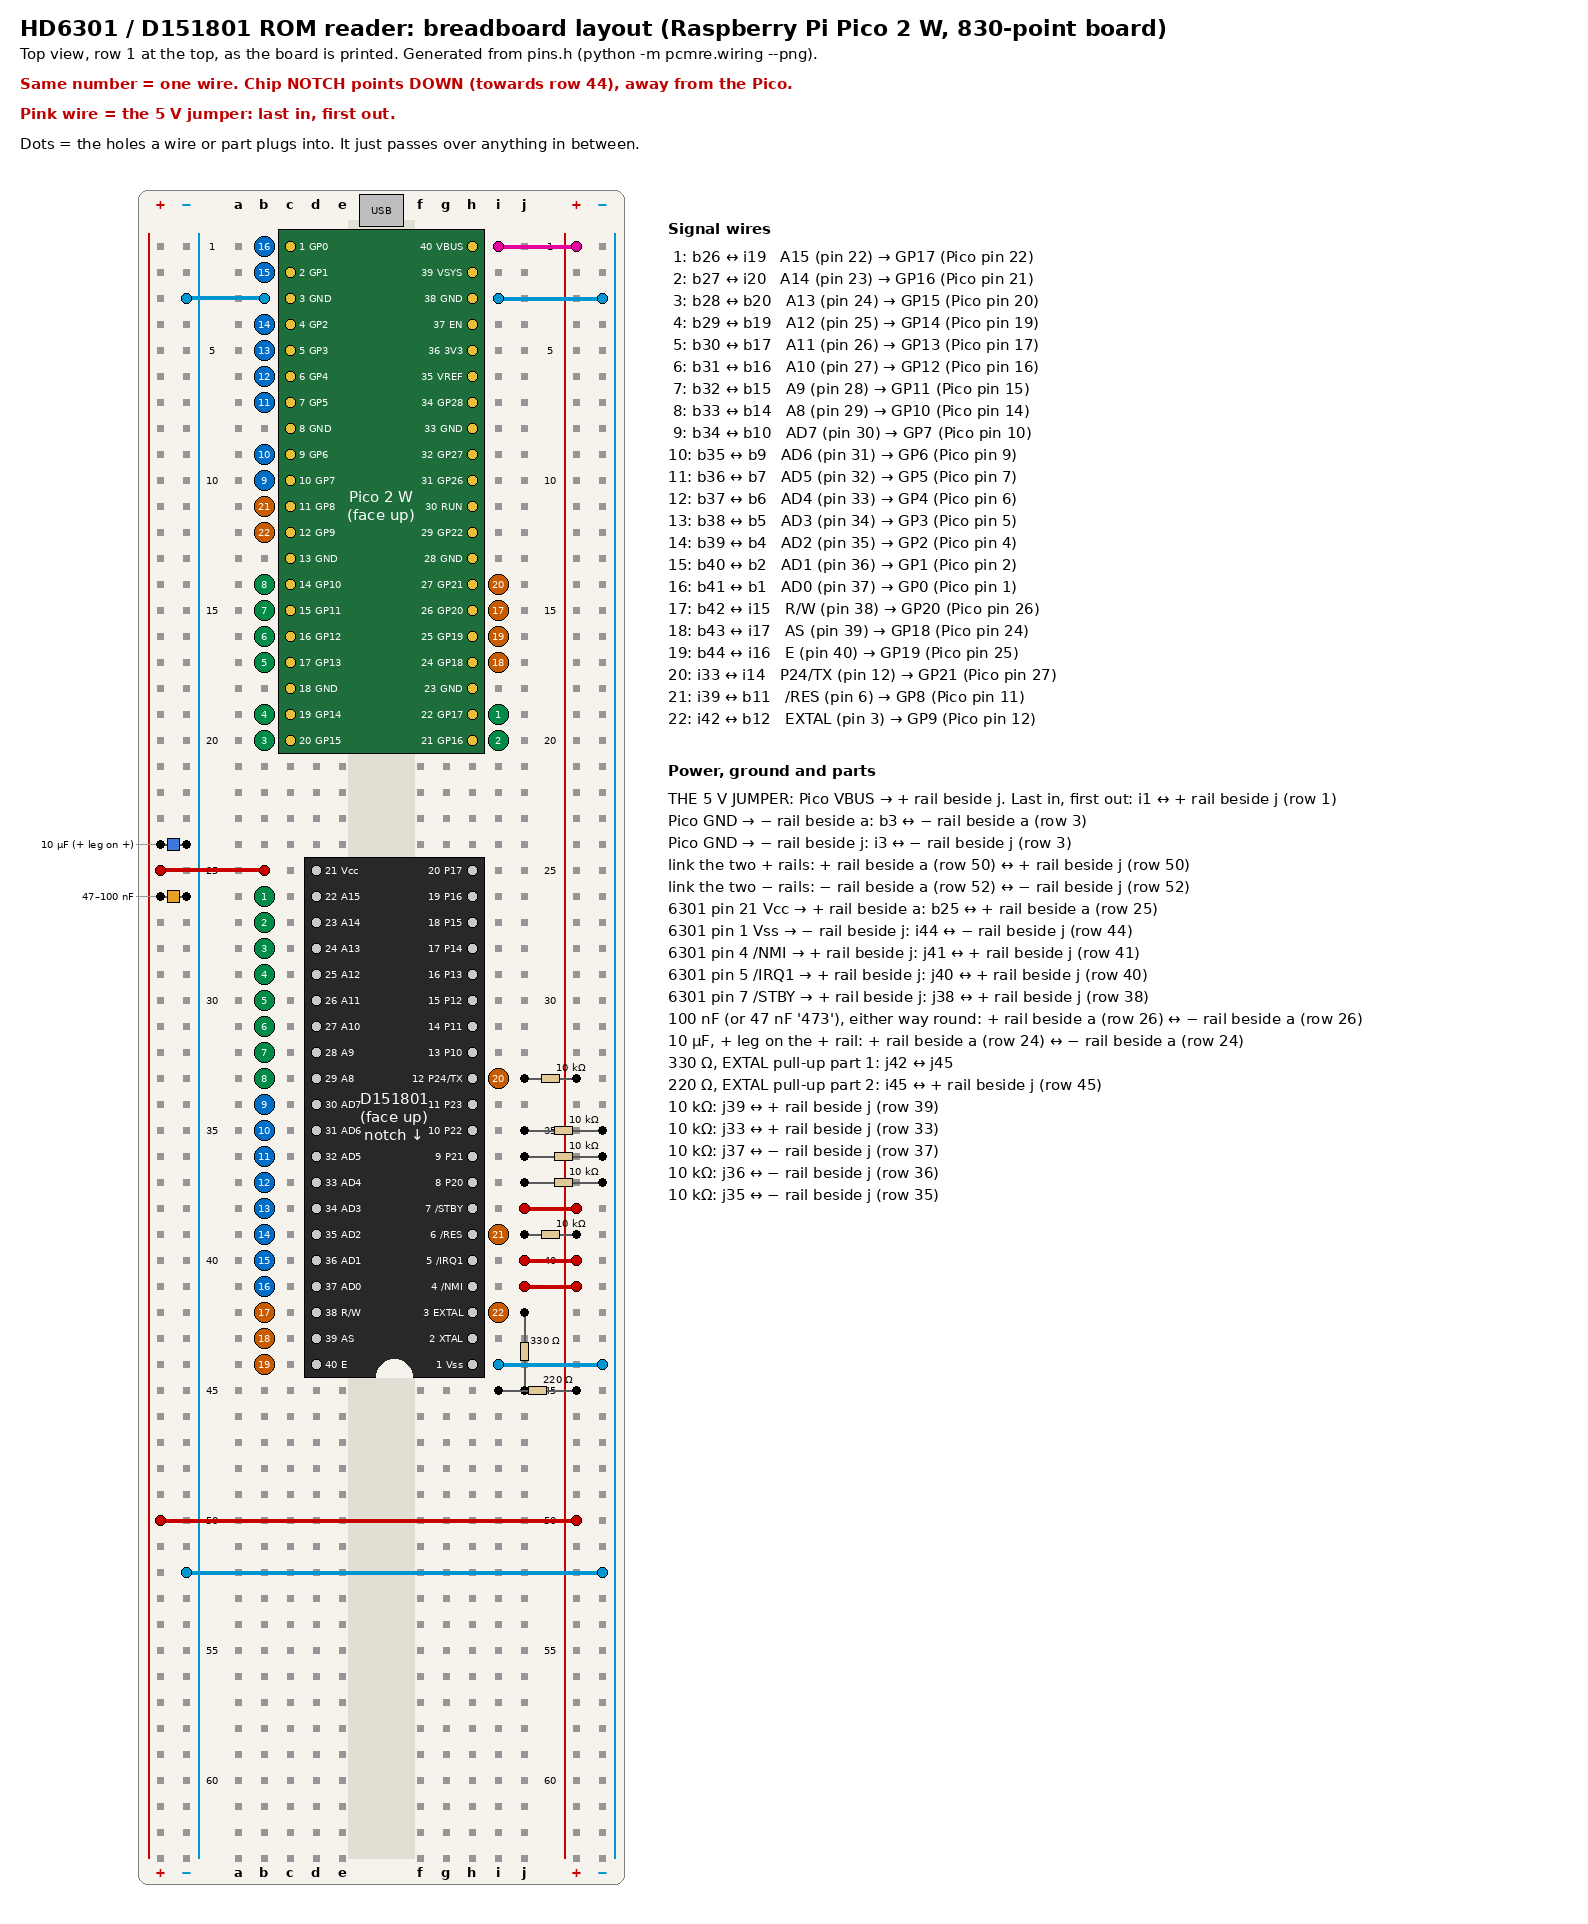
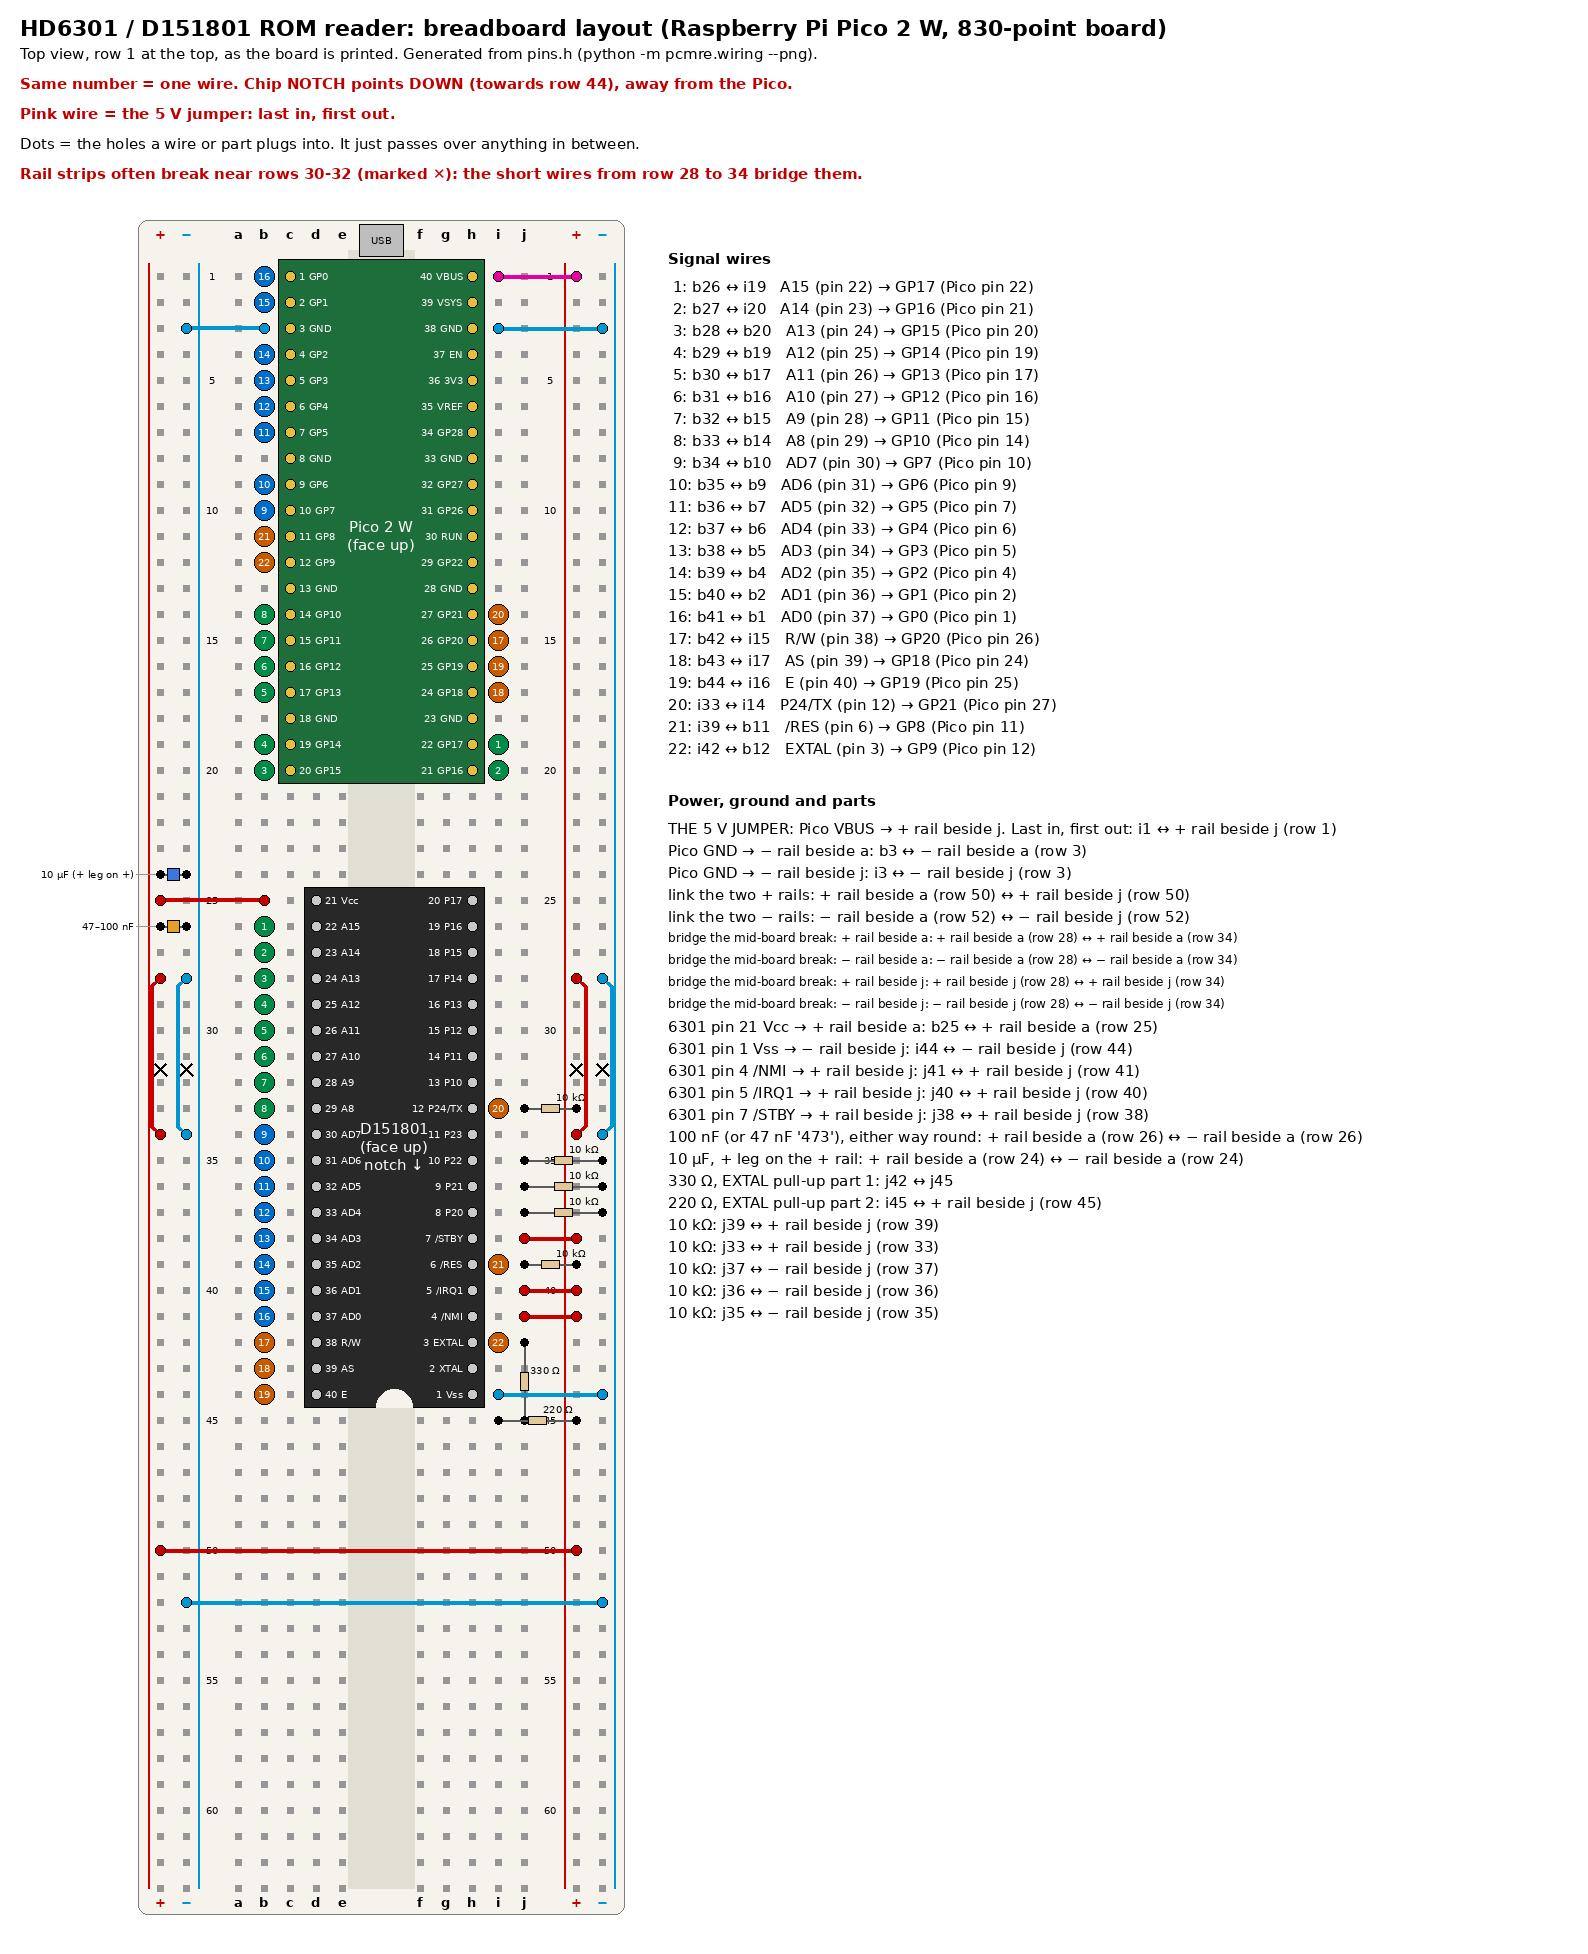
Breadboard layout: bridge the mid-board break in all four rail strips (rows 28-34)
Claude-Session: https://claude.ai/code/session_012woojD6NXFMVtqkWD6Vx8o

diff --git a/analysis/pcmre/wiring.py b/analysis/pcmre/wiring.py
@@ -175,6 +175,9 @@ def draw(board: str, out: Path) -> None:
 COLS = "abcdefghij"
 CHIP_ROW0 = 25
 RAIL_LINK_ROWS = {"+": 50, "-": 52}
+# Many 830-point boards break every rail strip near the middle (about rows 30-32). A short jumper on
+# each strip, from row 28 to row 34, bridges that break; no other rail connection uses these rows.
+RAIL_BRIDGE_ROWS = (28, 34)
 EXTAL_JOIN_ROW = 45  # free f-j strip joining the two EXTAL pull-up resistors
 
 
@@ -229,6 +232,15 @@ def breadboard() -> tuple[list[tuple[str, str, str, str]], list[tuple[str, str, 
         ("G2", *to_rail(_free(pico_hole(38)), "j-"), "Pico GND → − rail beside j"),
         ("L+", _rail("a+", RAIL_LINK_ROWS["+"]), _rail("j+", RAIL_LINK_ROWS["+"]), "link the two + rails"),
         ("L−", _rail("a-", RAIL_LINK_ROWS["-"]), _rail("j-", RAIL_LINK_ROWS["-"]), "link the two − rails"),
+        *[
+            (f"B{r}", _rail(r, RAIL_BRIDGE_ROWS[0]), _rail(r, RAIL_BRIDGE_ROWS[1]), f"bridge the mid-board break: {n}")
+            for r, n in (
+                ("a+", "+ rail beside a"),
+                ("a-", "− rail beside a"),
+                ("j+", "+ rail beside j"),
+                ("j-", "− rail beside j"),
+            )
+        ],
         ("Vcc", *to_rail(_free(chip_hole(21), 1), "a+"), "6301 pin 21 Vcc → + rail beside a"),
         ("Vss", *to_rail(_free(chip_hole(1), 0), "j-"), "6301 pin 1 Vss → − rail beside j"),
     ]
@@ -281,7 +293,7 @@ def draw_breadboard(out: Path) -> None:
             return ImageFont.load_default()
 
     wires, parts = breadboard()
-    p, left, top = 26, 160, 220  # pitch and origin, px
+    p, left, top = 26, 160, 250  # pitch and origin, px
     # x lane of each hole column and rail strip, in pitches; the centre gap is 3 pitches (e to f = 0.3")
     lane = {"a+": 0, "a-": 1, **{c: 3 + i for i, c in enumerate("abcde")}, **{c: 10 + i for i, c in enumerate("fghij")},
             "j+": 16, "j-": 17}  # fmt: skip
@@ -301,6 +313,8 @@ def draw_breadboard(out: Path) -> None:
         ("Same number = one wire. Chip NOTCH points DOWN (towards row 44), away from the Pico.", f15b, (190, 0, 0)),
         ("Pink wire = the 5 V jumper: last in, first out.", f15b, (190, 0, 0)),
         ("Dots = the holes a wire or part plugs into. It just passes over anything in between.", f15, "black"),
+        ("Rail strips often break near rows 30-32 (marked ✕): the short wires from row 28 to 34 bridge them.", f15b,
+         (190, 0, 0)),
     ]  # fmt: skip
     for i, (t, fnt, c) in enumerate(head):
         d.text((20, 15 + i * 30), t, fill=c, font=fnt)
@@ -327,6 +341,10 @@ def draw_breadboard(out: Path) -> None:
                 d.text((x, y), key, fill="black", font=f13b, anchor="mm")
         for r in range(1, 64):
             d.rectangle([x - 3, top + r * p - 3, x + 3, top + r * p + 3], fill=(150, 150, 150))
+    for name in ("a+", "a-", "j+", "j-"):  # typical mid-board break in each rail strip
+        x, y = left + lane[name] * p, top + 31 * p + p // 2
+        d.line([x - 6, y - 6, x + 6, y + 6], fill="black", width=2)
+        d.line([x - 6, y + 6, x + 6, y - 6], fill="black", width=2)
     for r in [1, *range(5, 64, 5)]:
         for x in (left + 2 * p, left + 15 * p):
             d.text((x, top + r * p), str(r), fill="black", font=f10, anchor="mm")
@@ -381,6 +399,13 @@ def draw_breadboard(out: Path) -> None:
     sig_colour = {"AD": (0, 110, 200), "A": (0, 140, 70), "ctl": (200, 90, 0)}
     for tag, a, b, what in wires:
         (xa_, ya_), (xb_, yb_) = xy(a), xy(b)
+        if is_rail(a) and is_rail(b) and a.split("@")[0] == b.split("@")[0]:  # bridge along one strip
+            colour = (200, 0, 0) if "+" in b else (0, 150, 210)
+            off = -9 if a.startswith("a") else 9  # bow outwards so it does not hide the strip
+            d.line([(xa_, ya_), (xa_ + off, ya_ + 8), (xb_ + off, yb_ - 8), (xb_, yb_)], fill=colour, width=4)
+            for x, y in ((xa_, ya_), (xb_, yb_)):
+                d.ellipse([x - 5, y - 5, x + 5, y + 5], fill=colour, outline="black")
+            continue
         if is_rail(b):
             colour = (230, 0, 160) if tag == "5V" else (200, 0, 0) if "+" in b else (0, 150, 210)
             d.line([xa_, ya_, xb_, yb_], fill=colour, width=4)

diff --git a/docs/hardware/rp2350_reader_guide.md b/docs/hardware/rp2350_reader_guide.md
@@ -171,7 +171,7 @@ One tested arrangement of the tables above, hole by hole.
 - **Rails:**
   - The + and − strips are the ones marked red and blue on your board. The picture follows the common layout: on the left the + strip is outermost, with the − strip beside column a; on the right the + strip is beside column j, with the − strip outermost. If your board differs, go by the red and blue markings, not the position.
   - Dots in the picture mark the holes a wire or part plugs into. Where a wire crosses a strip without a dot, it just passes over it.
-  - Some 830-point boards break each rail strip halfway. Beep a rail from row 1 to row 63; if it is split, bridge the break with a short wire.
+  - Many 830-point boards break each rail strip near the middle (about rows 30–32), even when the printed line looks continuous. The layout bridges all four strips with a short wire from row 28 to row 34 (wires B…). Check each strip beeps from row 1 to row 63.
   - The two + rails become the switched 5 V rail. They are fed only by the **5 V jumper** from the Pico's VBUS.
 
 <!-- generated: python -m pcmre.wiring (breadboard); tests/test_wiring.py checks this table -->
@@ -205,6 +205,10 @@ One tested arrangement of the tables above, hole by hole.
 | G2 | i3 | − rail beside j (row 3) | Pico GND → − rail beside j |
 | L+ | + rail beside a (row 50) | + rail beside j (row 50) | link the two + rails |
 | L− | − rail beside a (row 52) | − rail beside j (row 52) | link the two − rails |
+| Ba+ | + rail beside a (row 28) | + rail beside a (row 34) | bridge the mid-board break: + rail beside a |
+| Ba- | − rail beside a (row 28) | − rail beside a (row 34) | bridge the mid-board break: − rail beside a |
+| Bj+ | + rail beside j (row 28) | + rail beside j (row 34) | bridge the mid-board break: + rail beside j |
+| Bj- | − rail beside j (row 28) | − rail beside j (row 34) | bridge the mid-board break: − rail beside j |
 | Vcc | b25 | + rail beside a (row 25) | 6301 pin 21 Vcc → + rail beside a |
 | Vss | i44 | − rail beside j (row 44) | 6301 pin 1 Vss → − rail beside j |
 | /NMI | j41 | + rail beside j (row 41) | 6301 pin 4 /NMI → + rail beside j |
